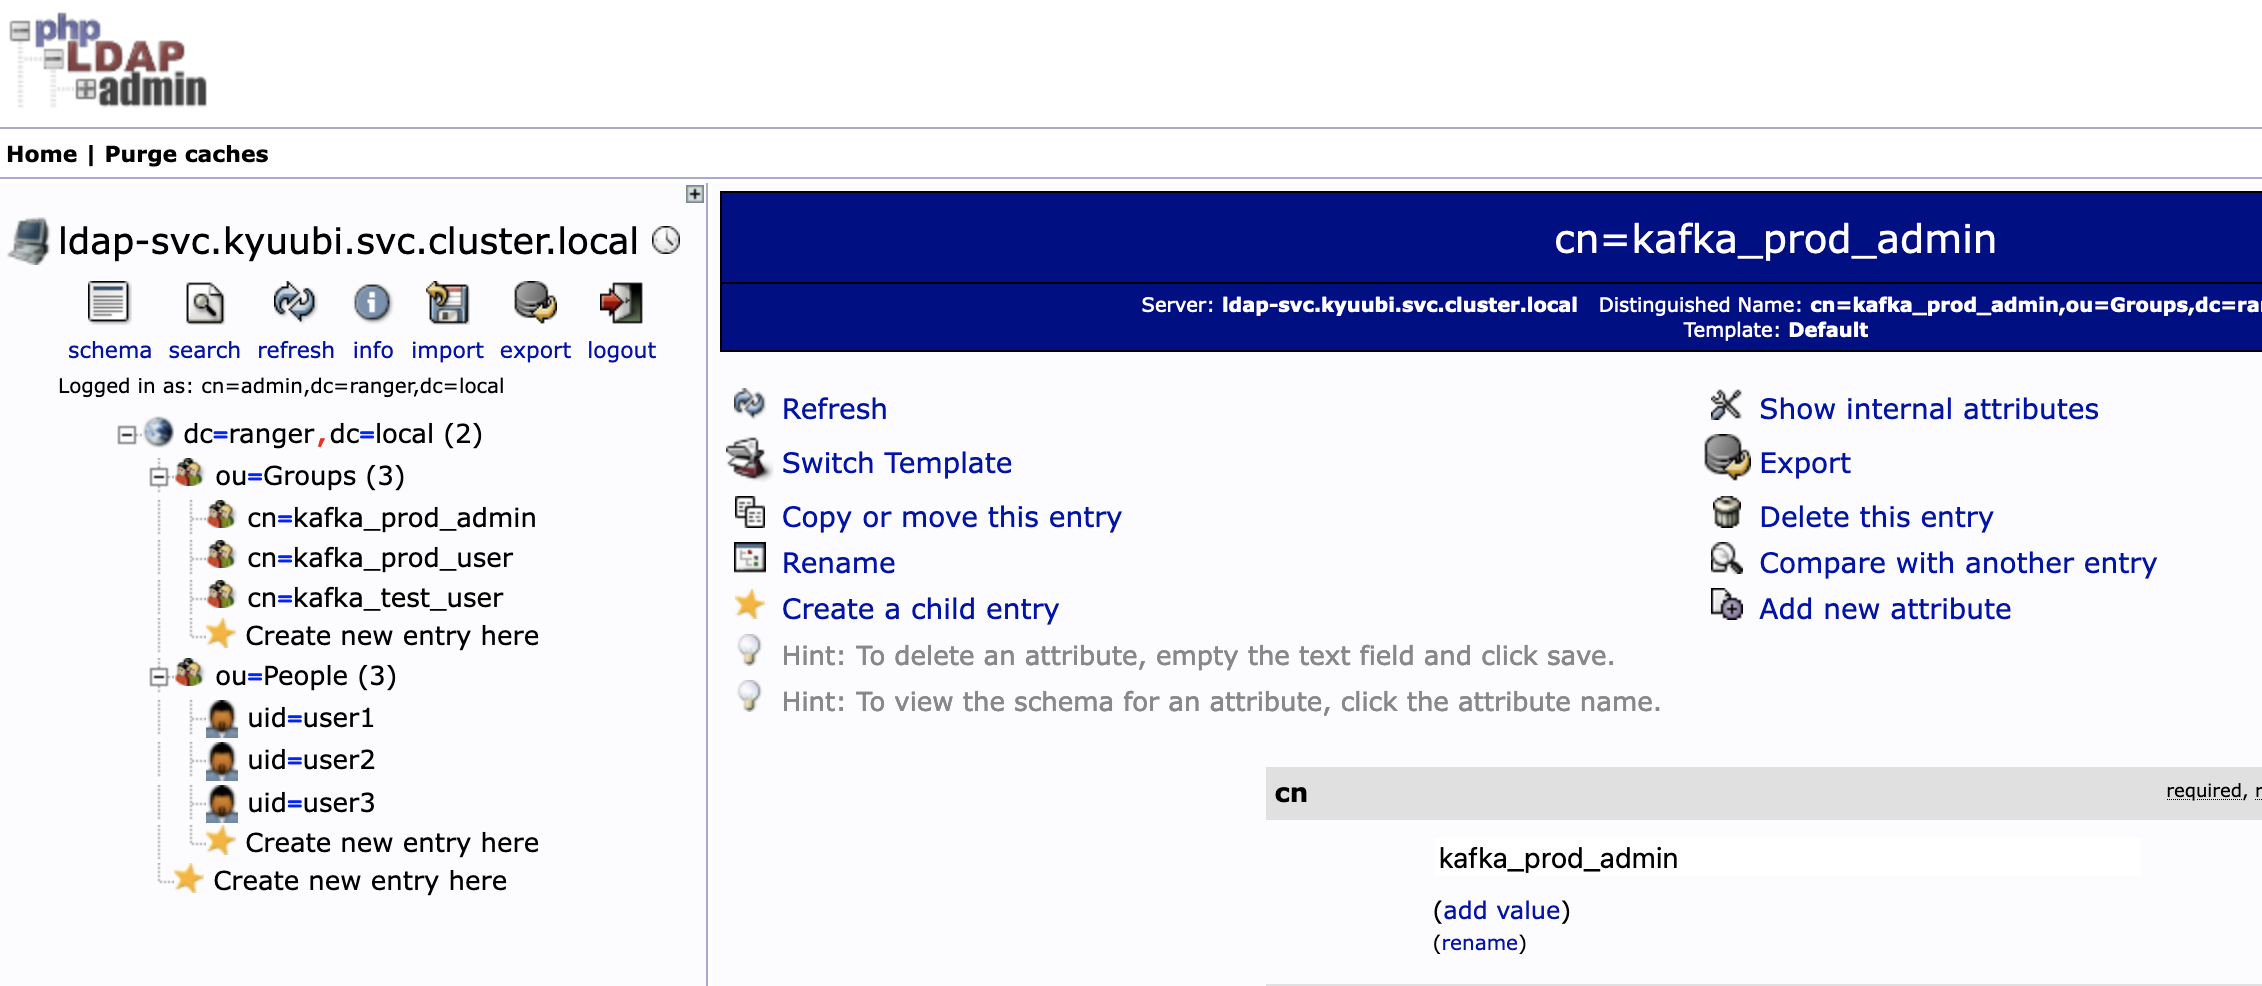
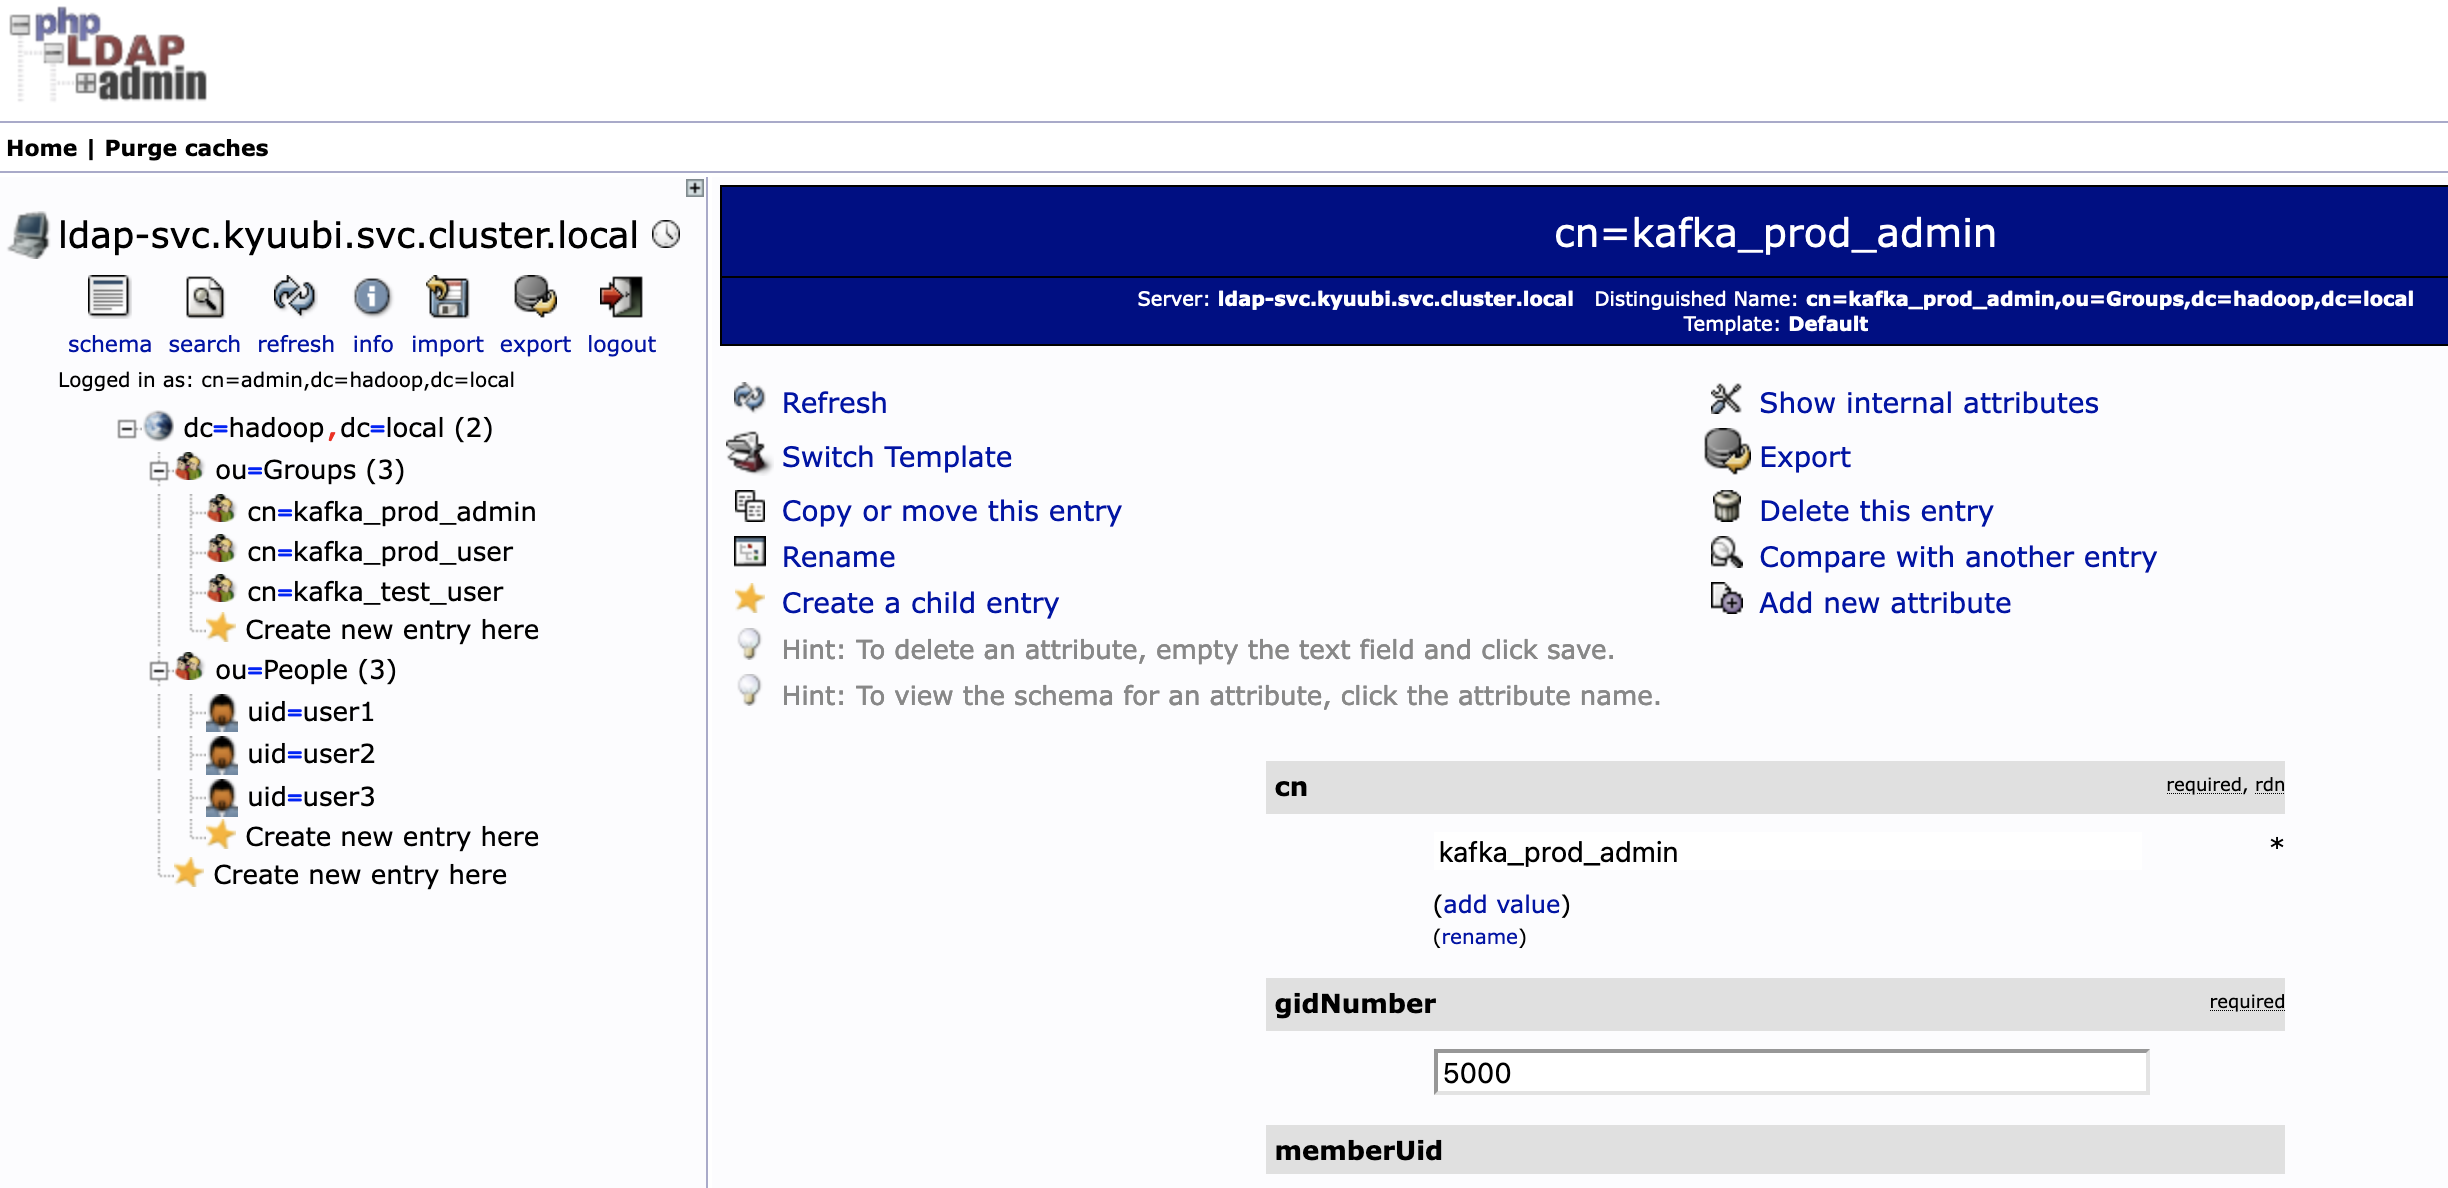
turn ranger deployment to statefulset to fix usersync issue

Changed region(s): [[0.0, 0.0, 1.0, 0.9128], [0.4951, 0.7606, 1.0, 1.0]]

diff --git a/utilities/emr-on-eks-kyuubi/README.md b/utilities/emr-on-eks-kyuubi/README.md
@@ -78,10 +78,10 @@ aws ecr get-login-password --region $AWS_REGION | docker login --username AWS --
 aws ecr create-repository --repository-name $ECR_URL/kyuubi-emr-eks --image-scanning-configuration scanOnPush=true
 
 docker buildx build --platform linux/amd64,linux/arm64 \
--t $ECR_URL/kyuubi-emr-eks:6.10 \
+-t $ECR_URL/kyuubi-emr-eks:emr6.15_kyuubi1.8 \
 -f dockers/kyuubi/Dockerfile \
---build-arg SPARK_BASE_IMAGE=755674844232.dkr.ecr.us-east-1.amazonaws.com/spark/emr-6.10.0 \
---build-arg KYUUBI_VERSION=1.7.3 --push .
+--build-arg SPARK_BASE_IMAGE=755674844232.dkr.ecr.us-east-1.amazonaws.com/spark/emr-6.15.0 \
+--build-arg KYUUBI_VERSION=1.8.0 --push .
 ```
 
 ### Helm install Kyuubi
@@ -145,32 +145,32 @@ spark-pi-0672778e8b4c63ed-exec-5                            1/1     Running   0 
 
 2. connect to Kyuubi server via Thrift (HiveServer2 compatible)
 ```bash
-./bin/beeline -u 'jdbc:hive2://kyuubi-0.kyuubi-headless.kyuubi.svc.cluster.local:10009?spark.app.name=testdelta' -n hadoop
+./bin/beeline -u 'jdbc:hive2://kyuubi-thrift-binary:10009?spark.app.name=testdelta' -n hadoop
 ```
 3. let's create a sample database and table in Delta format, which are mapping to an S3 bucket that you have access to. In the Glue console, you should be able to see the related metadata generated in AWS Glue Data Catalog under the database `kyuubi_delta` with a S3 location.
 
  ![gdc](./images/glue_db.jpeg)
 
 ```yaml
-0: jdbc:hive2://kyuubi-0.kyuubi-headless.kyuu> CREATE DATABASE IF NOT EXISTS kyuubi_delta LOCATION 's3://YOUR_S3_BUCKET/kyuubi-delta';
+0: jdbc:hive2://kyuubi-thrift-binary.kyuubi.s> CREATE DATABASE IF NOT EXISTS kyuubi_delta LOCATION 's3://YOUR_S3_BUCKET/kyuubi-delta';
 ......
-0: jdbc:hive2://kyuubi-0.kyuubi-headless.kyuu> USE kyuubi_delta;
+0: jdbc:hive2://kyuubi-thrift-binary.kyuubi.s> USE kyuubi_delta;
 ......
-0: jdbc:hive2://kyuubi-0.kyuubi-headless.kyuu> CREATE TABLE table_with_col USING DELTA AS SELECT col1 as id FROM VALUES 0,1,2,3,4;
+0: jdbc:hive2://kyuubi-thrift-binary.kyuubi.s> CREATE TABLE table_with_col USING DELTA AS SELECT col1 as id FROM VALUES 0,1,2,3,4;
 ......
 +---------+
 | Result  |
 +---------+
 +---------+
 No rows selected (5.32 seconds)
-0: jdbc:hive2://kyuubi-0.kyuubi-headless.kyuu> show tables;
+0: jdbc:hive2://kyuubi-thrift-binary.kyuubi.s> show tables;
 +---------------+-----------------+--------------+
 |   namespace   |    tableName    | isTemporary  |
 +---------------+-----------------+--------------+
 | kyuubi_delta  | table_with_col  | false        |
 +---------------+-----------------+--------------+
 1 row selected (0.325 seconds)
-0: jdbc:hive2://kyuubi-0.kyuubi-headless.kyuu> SELECT * FROM kyuubi_delta.table_with_col;
+0: jdbc:hive2://kyuubi-thrift-binary.kyuubi.s> SELECT * FROM kyuubi_delta.table_with_col;
 +-----+
 | id  |
 +-----+
@@ -183,10 +183,10 @@ No rows selected (5.32 seconds)
 5 rows selected (1.74 seconds)
 
 
-0: jdbc:hive2://kyuubi-0.kyuubi-headless.kyuu> !quit
+0: jdbc:hive2://kyuubi-thrift-binary.kyuubi.s> !quit
 ```
 
-## Kyuubi Security (WIP)
+## Kyuubi Security  - Install 2 helm charts
 Securing Kyuubi involves enabling authentication(authn), authorization(authz) in this example. 
 
 ### Install OpenLDAP (authentication)
@@ -206,19 +206,12 @@ This Helm Chart installs a LDAP server and a web app 'phpLDAPadmin' administerin
 ```bash
 kubectl port-forward service/ldap-php-svc 8080:8080 -n kyuubi
 # URL: http://localhost:8080/
-# Login: cn=admin,dc=ranger,dc=local
+# Login: cn=admin,dc=hadoop,dc=local
 # password: admin
 ```
-To demonstrate that ranger can sync up with LDAP, we pre-created 3 groups - kafka_test_user,kafka_prod_user,kafka_prod_admin and 3 users - user1,user2,user3 at LDAP launch time.
+To demonstrate that ranger can sync up with LDAP, we have pre-created 3 groups - kafka_test_user,kafka_prod_user,kafka_prod_admin and 3 users - user1,user2,user3 at the installation time.
 
 ![ldap](./images/ldap_admin.jpeg)
-
-### Setup a new LDAP domain for Kyuubi
-Login to a LDAP server pod, then run the setup
-```bash
-export ldap_pod_name=`kubectl get pods -n kyuubi | awk '/ldap-/ {print $1;exit}'`
-kubectl exec -it $ldap_pod_name -n kyuubi -- bash
-./ldap_setup.sh
 
 
 ### Install Ranger Admin Server (authorization)
@@ -236,34 +229,65 @@ Using the same way, we install the Ranger Admin Server via the similar commands.
 helm install ranger charts/ranger -f charts/ranger/values.yaml -n kyuubi --debug
 ```
 
-After the Ranger server is started, the ranger-usersync will begin synchronizing users and groups from the LDAP to Ranger. To login to the server and validate, connect to the Ranger Server `http://localhost:6080` and use the Ranger credentials: `username: admin  password: Rangeradmin1!`. You'll be required to use an SSH tunnel to access the interface before access the web interface:
+After the Ranger server is started, the ranger-usersync will begin synchronizing users and groups from the LDAP to Ranger. To validate, connect to the Ranger Server `http://localhost:6080` and use the Ranger credentials: `username: admin  password: Rangeradmin1!`. You'll be required to use an SSH tunnel before access the web interface:
 ```bash
-# get ranger admin server pod name
-export ranger_pod_name=`kubectl get pods -n kyuubi | awk '/admin/ {print $1;exit}'`
 # ssh tunneling
-kubectl port-forward $ranger_pod_name -n kyuubi 6080:6080
+kubectl port-forward ranger-0 -n kyuubi 6080:6080
 ```
-
 ![ranger](./images/ranger_admin.png)
 
-
-## Testing
+### Validation
 
 We have now deployed Kyuubi secured by LDAP and Ranger, so it's time for some testings.
 
+1. Create new user and group in LDAP
+We login to the LDAP server pod first, then run the setup script. It creates 2 user under a single group in the hadooop.local domain:
+```bash
+# install the curl tool first
+apt install -y curl
+
+# setup new user & group in LDAP server
+export ldap_pod_name=`kubectl get pods -n kyuubi | awk '/ldap-/ {print $1;exit}'`
+kubectl exec -it $ldap_pod_name -n kyuubi -- bash
+curl https://raw.githubusercontent.com/aws-samples/aws-emr-utilities/main/utilities/emr-on-eks-kyuubi/scripts/ldap_setup.sh | bash  -s -- "admin" "kyuubi,analyst" "config_pass" "dc=hadoop,dc=local"
+```
+The new group is created:
+
+![kyuubildap](./images/ldap_analyst_group.jpeg)
+
+2. Check Ranger Sync
+The new users and group are sync over to Ranger:
+```bash
+# ssh tunneling
+kubectl port-forward ranger-0 -n kyuubi 6080:6080
+# url : localhost6080
+```
+![kyuubiranger](./images/ranger_analyst_group.jpeg)
+
+## Redeploy Kyuubi with Security enabled
+
+### Enable LDAP in Kyuubi setting
+Edit the custom Helm chart value file [./charts/my-kyuubi-values.yaml](./charts/my-kyuubi-values.yaml). Uncomment the lines of LDAP settings in the kyuubiDefaults config (line60) and modify the settings accordingly.
+
+Redeploy the Kyuubi chart:
+```bash
+helm upgrade --install kyuubi charts/kyuubi -n kyuubi -f charts/my-kyuubi-values.yaml --debug
+```
+Once you enabled the LDAP with Kyuubi, you won't be able to run the beenline tool via the Hadoop proxy user as before. Instead you only can access data using LDAP users setup earlier. Let's create an example to prove it.
+
 ### Create sample datasets
-We're going to create a sample dataset on S3 that is secured by Ranger policies. Your kyuubi pods should be able to access to the S3 via EKS's IRSA feature. To validate the permission, find your IAM role name from this command first:
+Let's create a sample dataset on S3 that is secured by Ranger policies. Your kyuubi pods should be able to access to the S3 via EKS's IRSA feature. To validate the permission, find your IAM role name from this command first:
 ```bash
 kubectl describe sa cross-ns-kyuubi -n kyuubi
 ```
 Once confirmed that you have the required access in the IAM role, let's create some sample data against the s3 bucket.
 ```bash
-# login to one of kyuubi instances in EKS, 
+# login to one of kyuubi instances in EKS
 kubectl exec -it pod/kyuubi-0 -n kyuubi -- bash
 
-# after login to the kyuubi, spin up the spark shell
+# after login to the kyuubi pod, spin up the spark shell
 spark-shell --master local --deploy-mode client
-
+# spark-shell --master local --deploy-mode client --conf spark.jars=/usr/lib/kyuubi/externals/engines/spark/kyuubi-spark-sql.jar,/usr/lib/kyuubi/externals/engines/spark/kyuubi-spark-authz.jar
 ```
 
 The following code snippet creates two sample tables - customer and store_sales, mapping to the S3 bucket that you have access to. Your Kyuubi has been pre-configured via the [charts/kyuubi/my-kyuubi-valeus.yaml](./charts/kyuubi/my-kyuubi-valeus.yaml) to use AWS Glue Data Catalog as its metastore. In the Glue console, you should be able to see the related table metadata is generated under the new database `secure_datalake`. 
@@ -296,7 +320,7 @@ spark.sql("SELECT * FROM secure_datalake.store_sales").show
 ```
 The outputs are :
 ```
-scala> spark.sql("SELECT * FROM aws_kyuubi.customer").show
+scala> spark.sql("SELECT * FROM secure_datalake.customer").show
 18:56:59.213 INFO com.amazon.ws.emr.hadoop.fs.s3n.S3NativeFileSystem: Opening 's3://emr-on-eks-rss-ACCOUNT-REGION/secure-datalake/customer/part-00000-8b2b0695-589f-4d3e-9004-8824aaca23ba-c000.snappy.parquet' for reading
 +---+----------+---------+--------------------+---------+                       
 | id|first_name|last_name|                mail|  balance|
@@ -306,7 +330,7 @@ scala> spark.sql("SELECT * FROM aws_kyuubi.customer").show
 |  3|       Tom|    Brady|     tom@example.com| 10000000|
 +---+----------+---------+--------------------+---------+
 
-scala> spark.sql("SELECT * FROM aws_kyuubi.store_sales").show
+scala> spark.sql("SELECT * FROM secure_datalake.store_sales").show
 18:57:00.287 INFO com.amazon.ws.emr.hadoop.fs.s3n.S3NativeFileSystem: Opening 's3://emr-on-eks-rss-ACCOUNT-REGION/secure-datalake/store_sales/part-00000-9cf3e70f-a3ca-487e-a0a7-15fe5d53fc7e-c000.snappy.parquet' for reading
 +---+----+-----+
 | id|c_id|price|
@@ -317,14 +341,16 @@ scala> spark.sql("SELECT * FROM aws_kyuubi.store_sales").show
 |  1|   3|  498|
 +---+----+-----+
 ```
-### Ranger Policies
-Finally we're going to create the Ranger policies to test the access to our tables.
-To create the policies, copy the script `scripts/ranger_policies.sh` and launch the
-following commands:
 
+### Add Ranger Policies
+
+Finally we create the Ranger policies to test the access of the tables recreated above. Launch the script `ranger_policies.sh` on a ranger pod :
 ```bash
-chmod +x ./ranger_policies.sh
-./ranger_policies.sh
+# login to the Ranger Admin Server pod
+export ranger_pod_name=`kubectl get pods -n kyuubi | awk '/admin/ {print $1;exit}'`
+kubectl exec -it $ranger_pod_name -n kyuubi -- bash
+# create policies in Ranger
+curl https://raw.githubusercontent.com/aws-samples/aws-emr-utilities/main/utilities/emr-on-eks-kyuubi/scripts/ranger_policies.sh | bash
 ```
 
 The policies created gives access to our analyst user to the `customer` table
@@ -335,7 +361,7 @@ To test everything is properly setup, launch the following commands to submit
 some sample queries:
 
 ```bash
-beeline -u jdbc:hive2://`kubectl -n $EKS_NS get service/kyuubi-balancer -o json | jq -r .status.loadBalancer.ingress[].hostname`:10009 -n analyst -p Password123
+./bin/beeline -u jdbc:hive2://kyuubi-thrift-binary:10009 -n analyst -p Password123
 ```
 
 Once opened the SQL editor type
